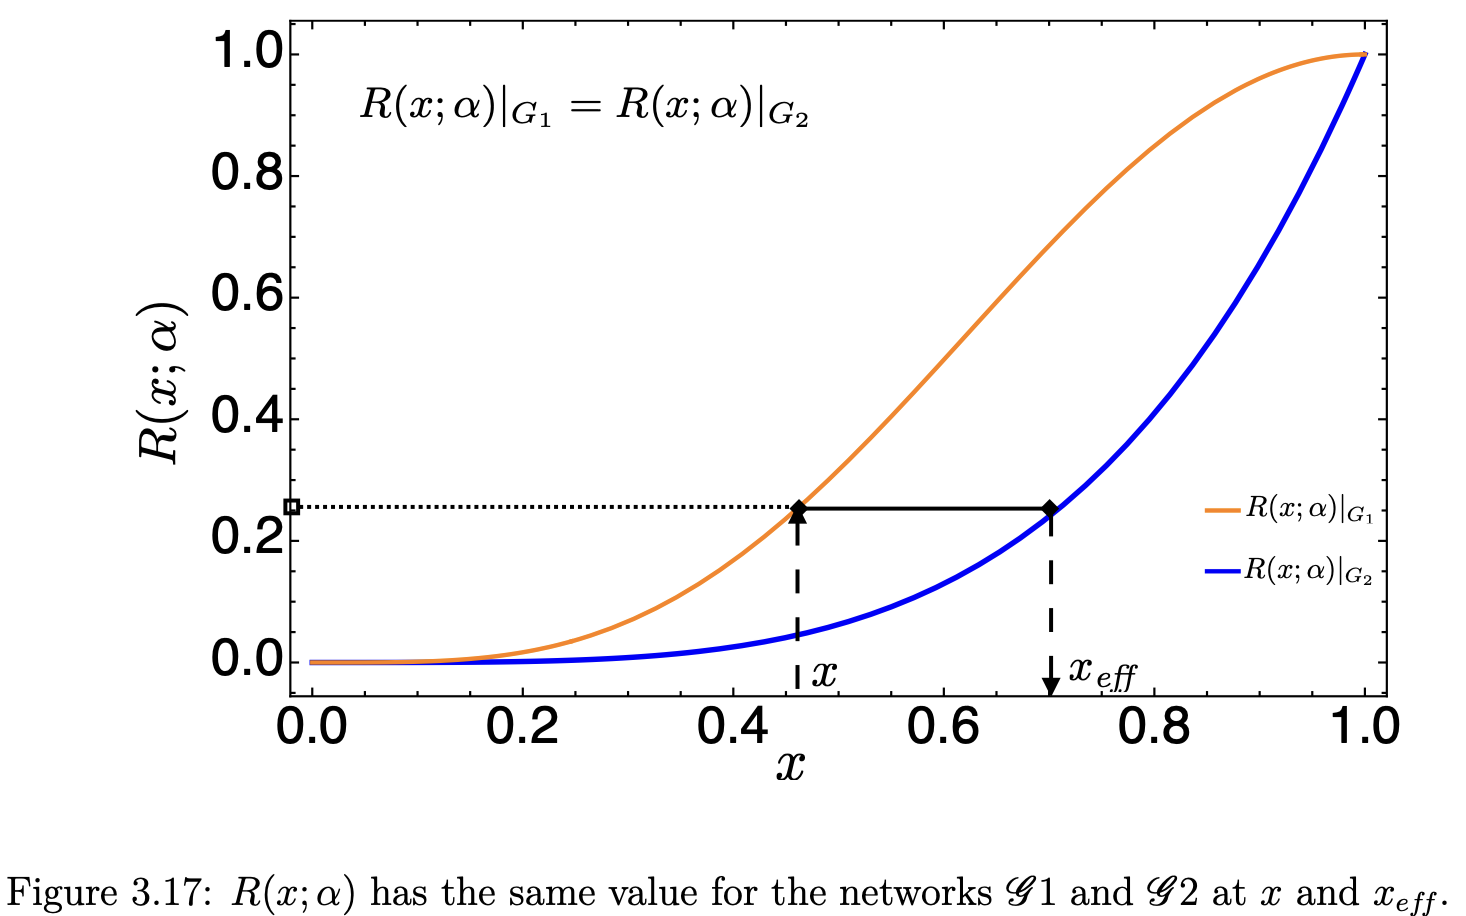
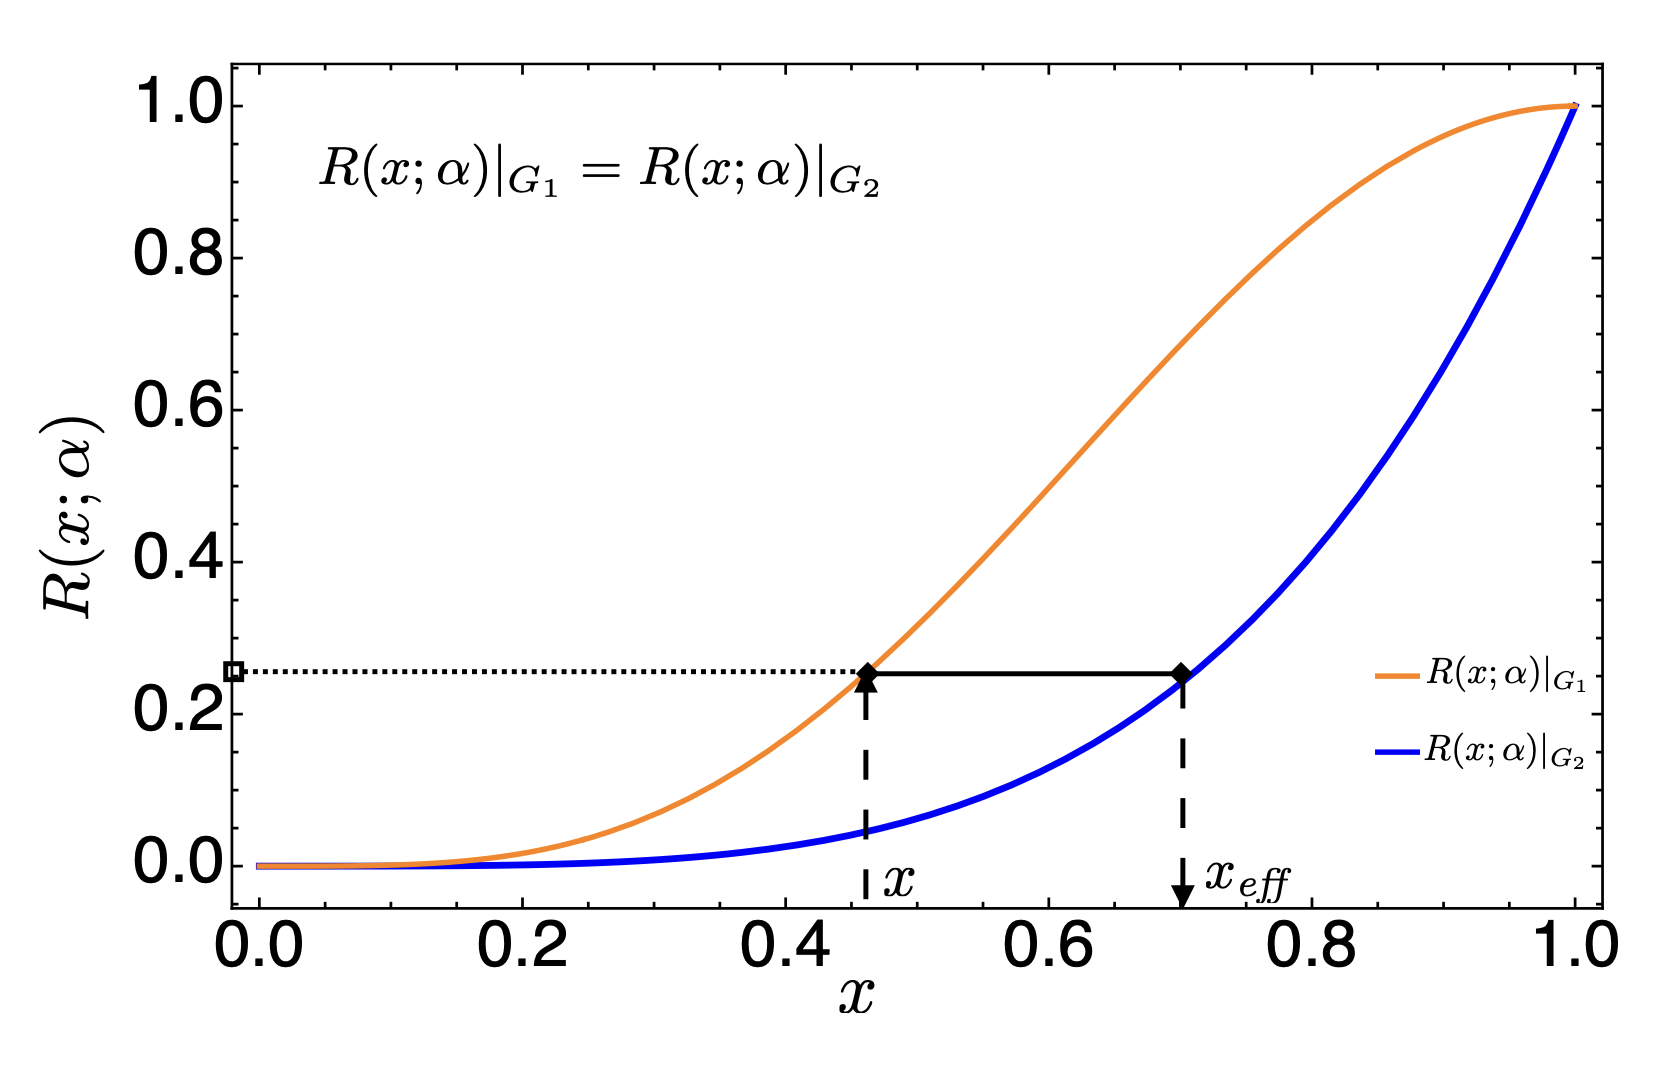
website: remove Coming Soon, drop e-discovery, update text across pages
- projects.html: remove Coming Soon placeholder card
- teaching.html: update stylesheet to v=44
- industry.html: condense healthcare section to one paragraph; update Text Analytics summary to reflect two NLP projects
- nlp_pipelines.html: remove e-discovery section and update intro
- knowledge_support_tool.html: clarify LLM (Claude in diagram, Llama in production); remove vague sales-summary sentences
- epidemic_trade.html: tighten para 2 and 3 in section 1 (remove 'significantly', 'More strikingly', fix 'Re-calibrating' subject); simplify cluster algorithm sentence in section 2; move 96% metric into robustness sentence; shorten figcaption
- outreach.html: replace individual Medium article links with topic-summary sentence
- related_files: replace epidemic images with cropped versions of matching dimensions

diff --git a/project_related_files/epidemic_trade.html b/project_related_files/epidemic_trade.html
@@ -54,16 +54,16 @@
                 <p>\(R(x;\,\mathcal{G},D_\text{SIR},\mathcal{P}_N)\) gives the probability that infecting a single randomly chosen node leads to an outbreak involving at least \(N\) people, where \(x\) is the per-edge transmission probability. It is a finite-degree polynomial in \(x\) that captures both network topology and epidemic dynamics in a single quantity.</p>
             </div>
 
-            <p class="proj-text">The observed network is school 86, drawn from Wave I of <a href="https://addhealth.unc.edu/" target="_blank" rel="noopener">Add Health</a> (the National Longitudinal Study of Adolescent to Adult Health) &mdash; two linked high schools with 1,460 students and 974 mutual friendship links. Exponential random graph models (ERGMs) provide the controlled comparison: random networks constrained to match a target on specified graph statistics, the standard tool for asking whether those statistics alone determine how an epidemic unfolds. Faux Magnolia, a widely-used ERGM drawn from the same dataset, serves as the primary comparison.</p>
+            <p class="proj-text">The observed network is school 86, drawn from Wave I of <a href="https://addhealth.unc.edu/" target="_blank" rel="noopener">Add Health</a> (the National Longitudinal Study of Adolescent to Adult Health) &mdash; two linked high schools with 1,460 students and 974 mutual friendship links. Exponential random graph models (ERGMs) are the controlled comparison: random networks constrained to match specified graph statistics, testing whether those statistics alone determine epidemic dynamics. Faux Magnolia — a synthetic network built from the same Add Health data — is the primary ERGM benchmark.</p>
 
-            <p class="proj-text">Computing \(R(x;\,\mathcal{G},D_\text{SIR},\mathcal{P}_N)\) for each network shows that school 86 is significantly more resistant to large outbreaks than any of the ERGMs &mdash; at the same transmission probability, ERGMs overestimate infection numbers by up to 50%. Re-calibrating so all networks share the same epidemic potential, systematic differences in peak infection height and outbreak duration persist. More strikingly, a less constrained random network performs as well as or better than Faux Magnolia: adding more constraints to match local statistics does not improve how well the model reproduces epidemic dynamics, and can introduce spurious global structure. Standard summary statistics &mdash; degree distribution and clustering &mdash; are insufficient to characterise epidemic dynamics; observed contact network data remains essential for designing public health interventions.</p>
+            <p class="proj-text">Computing \(R(x;\,\mathcal{G},D_\text{SIR},\mathcal{P}_N)\) for each network shows that school 86 is more resistant to large outbreaks than the ERGMs: at the same transmission probability, ERGMs overestimate infection counts by up to 50%. After re-calibrating all networks to the same epidemic potential, systematic differences in peak infection height and duration persist. A less constrained random network performs as well as Faux Magnolia &mdash; adding more constraints does not improve how the model reproduces epidemic dynamics, and can introduce structural artefacts. Degree distribution and clustering are not sufficient to characterise epidemic dynamics; observed contact network data is essential for effective public health planning.</p>
 
             <figure style="margin:24px 0 4px;">
                 <div style="display:flex; gap:16px; flex-wrap:wrap;">
                     <img src="../related_files/epidemic_epicurves.png" alt="Mean epidemic curves showing infection counts over time for SIR dynamics on observed contact networks versus ERGM models, with ERGMs overestimating peak infection" style="flex:1; width:0; min-width:260px; border-radius:6px; cursor:zoom-in;" class="inline-zoomable">
                     <img src="../related_files/epidemic_calibration.png" alt="Reliability curves for observed contact networks and ERGM models, showing that school 86 requires higher transmission probability to achieve the same epidemic potential" style="flex:1; width:0; min-width:260px; border-radius:6px; cursor:zoom-in;" class="inline-zoomable">
                 </div>
-                <figcaption>Mean epicurves (left) and reliability curves (right) for school 86, Faux Magnolia, and ERGM ensembles under SIR dynamics. ERGMs overestimate peak infection and outbreak duration; school 86 requires significantly higher transmission probability to reach the same epidemic potential.</figcaption>
+                <figcaption>Mean epicurves for school 86, Faux Magnolia, and ERGM ensembles (left); reliability curves showing epidemic potential as a function of transmission probability for each network (right).</figcaption>
             </figure>
         </section>
 
@@ -73,9 +73,9 @@
 
             <p class="proj-text">The same framework extends naturally to trade networks. The global food system creates pathways for invasive species to spread between countries through trade in agricultural commodities. This work applies Moore-Shannon network reliability to identify <em>contagion clusters</em> in international food trade &mdash; groups of countries with shared vulnerability, where a pest entering one country substantially increases the likelihood of spread to the others.</p>
 
-            <p class="proj-text">The case study is <em>Tuta absoluta</em> (South American tomato leafminer), an invasive pest that has spread from its native South America to most of Europe, Africa, and West, Central, and South Asia. Data comes from the FAO (Food and Agriculture Organization of the United Nations) Detailed Trade Matrices at country level, covering trade in Solanaceae crops &mdash; tomato, potato, eggplant, and pepper &mdash; for 2005&ndash;2013. Clusters are identified by removing trade edges in order of their contribution to network reliability until no group of mutually reachable countries exceeds a threshold, ranking trade routes by structural importance to the contagion process.</p>
+            <p class="proj-text">The case study is <em>Tuta absoluta</em> (South American tomato leafminer), an invasive pest that has spread from its native South America to most of Europe, Africa, and West, Central, and South Asia. Data comes from the FAO (Food and Agriculture Organization of the United Nations) Detailed Trade Matrices at country level, covering trade in Solanaceae crops &mdash; tomato, potato, eggplant, and pepper &mdash; for 2005&ndash;2013. Clusters are identified by iteratively removing trade edges in decreasing order of their contribution to network reliability, until no group of mutually reachable countries exceeds a size threshold &mdash; effectively ranking trade routes by their structural importance to contagion spread.</p>
 
-            <p class="proj-text">A stable European cluster &mdash; Portugal, Netherlands, Belgium, France, and Spain &mdash; appears across all years, with a distinct North American cluster (USA, Mexico, Canada) identified separately. The structure is robust across different transmission probabilities and discretisation thresholds. As trade volumes grow between 2005 and 2013, clusters expand and fewer countries remain isolated from contagion risk. Forecasting precision across identified clusters reached approximately 96%. These clusters mark the highest-priority targets for biosecurity surveillance: a pest entering any one country in a cluster is highly likely to reach the others within the same trade season.</p>
+            <p class="proj-text">A stable European cluster &mdash; Portugal, Netherlands, Belgium, France, and Spain &mdash; appears across all years, with a distinct North American cluster (USA, Mexico, Canada) identified separately. The structure is robust across different transmission probabilities and discretisation thresholds, with forecasting precision reaching approximately 96%. As trade volumes grow between 2005 and 2013, clusters expand and fewer countries remain isolated from contagion risk. These clusters are the highest-priority targets for biosecurity surveillance: a pest entering any one country in a cluster is highly likely to reach the others within the same trade season.</p>
 
             <figure style="margin:24px 0 4px;">
                 <div style="display:flex; gap:16px; flex-wrap:wrap;">

diff --git a/projects.html b/projects.html
@@ -36,16 +36,6 @@
 
         <div class="proj-grid">
 
-            <a href="#" class="proj-card">
-                <div class="proj-card-img--placeholder">[ image coming soon ]</div>
-                <div class="proj-card-body">
-                    <h3 class="proj-card-title">Coming Soon</h3>
-                    <p class="proj-card-desc">Coming soon.</p>
-                    <div class="proj-tags">
-                    </div>
-                </div>
-            </a>
-
             <a href="project_related_files/data_migration.html" class="proj-card">
                 <div class="proj-card-img">
                     <img src="related_files/streamlit_home.png" alt="Financial Analytics Pipeline on Databricks — Streamlit dashboard home showing the pipeline and migration tool">

diff --git a/project_related_files/nlp_pipelines.html b/project_related_files/nlp_pipelines.html
@@ -37,7 +37,7 @@
 
         <h2 style="margin-top: 10px;">NLP Pipelines</h2>
 
-        <p class="proj-text">Three engagements applying text classification, sentiment analysis, and topic modelling to domain-specific text — each tackling a different operational problem: product taxonomy harmonisation, safety theme extraction from incident reports, and legal document classification for e-discovery.</p>
+        <p class="proj-text">Two engagements applying text classification, sentiment analysis, and topic modelling to domain-specific text: product taxonomy harmonisation for a global consumer goods company, and safety theme extraction from incident reports for an energy utility.</p>
 
         <figure style="margin:20px auto; text-align:center;">
             <img src="../related_files/nlp_schematic.png" alt="Two-panel NLP pipeline schematic: text classification (Raw Text → Preprocess → Vectorise → Classifier → Category Label) and sentiment and topic modelling (Raw Text → Preprocess → Sentiment Score → Topic Model → Themes and Insights)" style="width:100%; border-radius:6px; mix-blend-mode:multiply;">
@@ -59,12 +59,6 @@
             <p class="proj-text">Related writing: <a href="https://medium.com/@m.nath/topic-modeling-algorithms-b7f97cec6005" target="_blank" rel="noopener">topic modelling algorithms</a> and <a href="https://medium.com/@m.nath/advantages-of-sparknlp-and-application-to-perform-topic-modeling-94712141e02" target="_blank" rel="noopener">SparkNLP for topic modelling</a> on Medium; <a href="https://github.com/madhurima-nath/topicModeling" target="_blank" rel="noopener">code on GitHub</a>.</p>
         </section>
 
-        <!-- Section 3: Legal -->
-        <section class="proj-section" id="legal">
-            <h3>Document Review</h3>
-            <p class="proj-text">In e-discovery, legal teams must classify large document collections for relevance to a case — a process that is slow and expensive when done manually at scale.</p>
-            <p class="proj-text">A document classification system was built on AWS SageMaker using Word2Vec embeddings and an SVM classifier. Rather than retraining from scratch as new labelled data arrived, an incremental retraining pipeline kept the model current with minimal overhead. The system cut manual review hours and the associated costs.</p>
-        </section>
 
     </div>
 

diff --git a/outreach.html b/outreach.html
@@ -168,11 +168,7 @@
                 techniques in concrete examples drawn from applied work.
             </p>
             <p>
-                Published work includes
-                <a href="https://medium.com/@m.nath/fuzzy-matching-algorithms-81914b1bc498" target="_blank" rel="noopener">NLP fuzzy matching algorithms</a>
-                for approximate string comparison and record linkage, and
-                <a href="https://medium.com/@m.nath/linear-regression-in-r-88507abfe8ab" target="_blank" rel="noopener">regression and statistical methods in R</a>.
-                Several pieces began as companion articles to talks, extending the material beyond the live audience.
+                Coverage spans NLP and text analytics, statistical methods, and data engineering &mdash; with a recent series on migrating financial analytics to Databricks. Several pieces began as companion articles to talks.
             </p>
         </div>
 

diff --git a/project_related_files/industry.html b/project_related_files/industry.html
@@ -49,7 +49,7 @@
         <!-- Section 2: NLP -->
         <section class="proj-section" id="nlp">
             <h3>Text Analytics</h3>
-            <p class="proj-text">Three engagements applying text classification, sentiment analysis, and topic modelling to different operational problems. Work included product taxonomy harmonisation for a global consumer goods company, safety theme extraction from incident reports for an energy utility, and document classification for legal e-discovery.</p>
+            <p class="proj-text">Two engagements applying text classification, sentiment analysis, and topic modelling to operational problems: product taxonomy harmonisation for a global consumer goods company, and safety theme extraction from incident reports for an energy utility.</p>
             <p class="proj-text"><a href="nlp_pipelines.html">Full detail &rarr;</a></p>
         </section>
 
@@ -60,9 +60,7 @@
             <p class="proj-text"><strong>Telecommunications: network predictive maintenance.</strong> Built a device health scoring system to proactively identify at-risk network infrastructure before service disruption, replacing reactive engineer dispatch with planned preventive maintenance. Validated in one region and extrapolated nationwide. Projected savings: $8M+ annually, ~30,000 fewer support calls, ~6,000 fewer service visits.</p>
             <p class="proj-text"><a href="network_failure_risk.html">Full detail &rarr;</a></p>
 
-            <p class="proj-text"><strong>Healthcare: data lake implementation.</strong> Six regional health information exchange networks aggregated patient data from providers across the state: hospitals, clinics, screening centres, and community health organisations. The pipeline was built and maintained by a team of four data engineers and a lead architect. It ingested 2 million records per day covering clinical records, screenings, and patient assessments, all in FHIR (Fast Healthcare Interoperability Resources) format, the standard for exchanging electronic health records across care systems.</p>
-            <p class="proj-text">Snowflake task orchestrations and parameterised stored procedures managed batch ingestion and export. Data quality checks and transformation rules ran across all source systems before records entered the lake. Compliance controls for sensitive patient data were applied throughout. A legacy JavaScript codebase was refactored into modular Python and SQL, making the pipeline easier to maintain and extend.</p>
-            <p class="proj-text">Outputs ran on daily, weekly, and monthly schedules depending on data type and recipient, supporting state health programme analytics, business analytics for health stakeholders, and follow-up workflows for screening centres. Programme analytics covered ~5 million residents across the state.</p>
+            <p class="proj-text"><strong>Healthcare: data lake implementation.</strong> Six regional health information exchange networks aggregated patient data from hospitals, clinics, screening centres, and community health organisations across the state. The pipeline ingested 2 million FHIR-formatted records per day, built and maintained by a team of four data engineers and a lead architect. Snowflake task orchestrations and data quality checks ran across all source systems; compliance controls for patient data were applied throughout. Outputs on daily, weekly, and monthly schedules supported state health programme analytics covering ~5 million residents.</p>
         </section>
 
     </div>

diff --git a/project_related_files/knowledge_support_tool.html b/project_related_files/knowledge_support_tool.html
@@ -43,7 +43,7 @@
         <section class="proj-section" id="finance">
             <h3>Product Discovery</h3>
             <p class="proj-text">A major financial institution needed internal teams to find relevant products across a large, complex catalogue. Manual search was slow and inconsistent — the goal was a system that could take a natural language query and surface the right products with supporting context.</p>
-            <p class="proj-text">Built on Databricks with Claude as the LLM and LangChain's agent framework. MLflow handled experiment tracking and pipeline management throughout. Development was coordinated closely with compliance teams to meet the institution's regulatory requirements. Internal teams could find the right products faster, with consistent results across the full catalogue.</p>
+            <p class="proj-text">Built on Databricks with LangChain's agent framework and an LLM (Claude shown in the architecture diagram; the production deployment used Llama). MLflow handled experiment tracking and pipeline management. Compliance requirements for the financial sector were addressed throughout the build.</p>
 
             <figure style="margin:20px auto; text-align:center;">
                 <img src="../related_files/genai-2.jpeg" alt="Architecture diagram for product discovery system: LangChain agent and chain, cloud storage with preprocessed plots and summarised characteristics, Claude 2.1 LLM, batch processing of raw descriptions via Python and LangChain" style="width:100%; border-radius:6px; cursor:zoom-in; mix-blend-mode:multiply;" class="inline-zoomable">

diff --git a/teaching.html b/teaching.html
@@ -14,7 +14,7 @@
     <title>Teaching · Madhurima Nath</title>
     <link rel="icon" type="image/png" href="tools/favicon-32.png?v=1">
     <link rel="icon" type="image/svg+xml" href="tools/favicon.svg?v=3">
-    <link rel="stylesheet" href="style.css?v=42">
+    <link rel="stylesheet" href="style.css?v=44">
     <script>MathJax = { tex: { inlineMath: [['\\(','\\)']] } };</script>
     <script src="https://cdn.jsdelivr.net/npm/mathjax@3/es5/tex-chtml.js" async></script>
 </head>